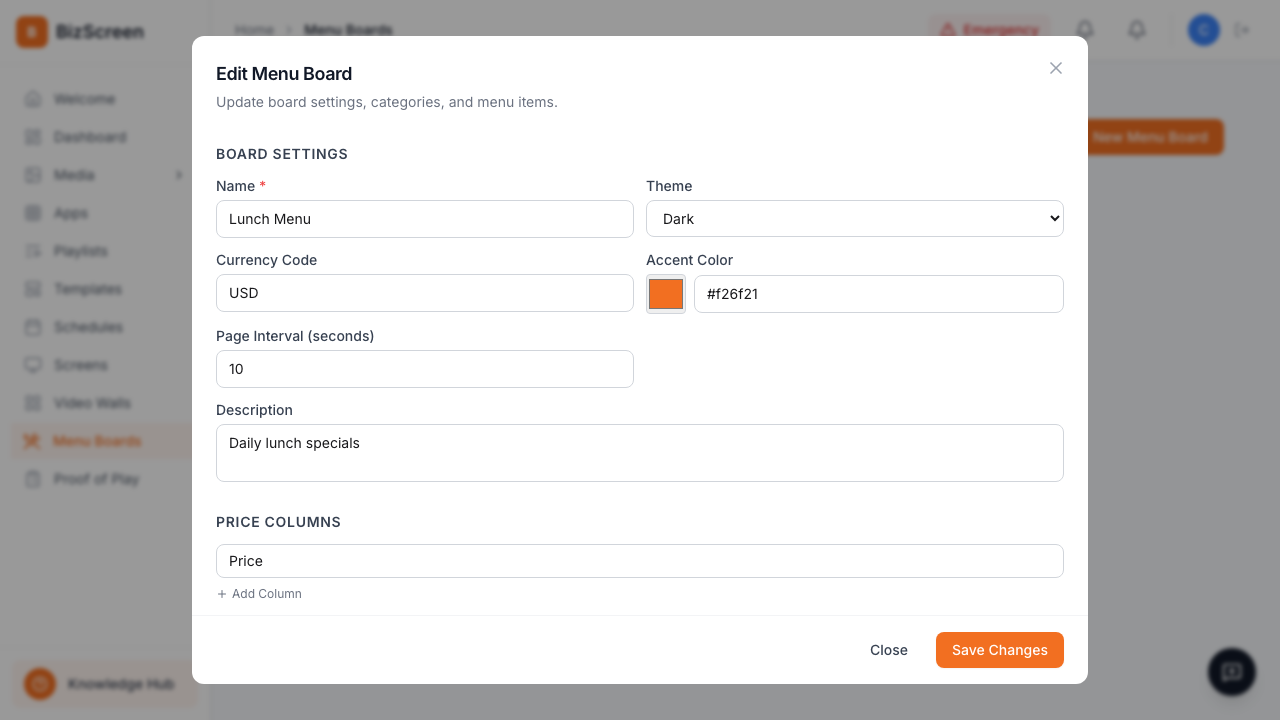
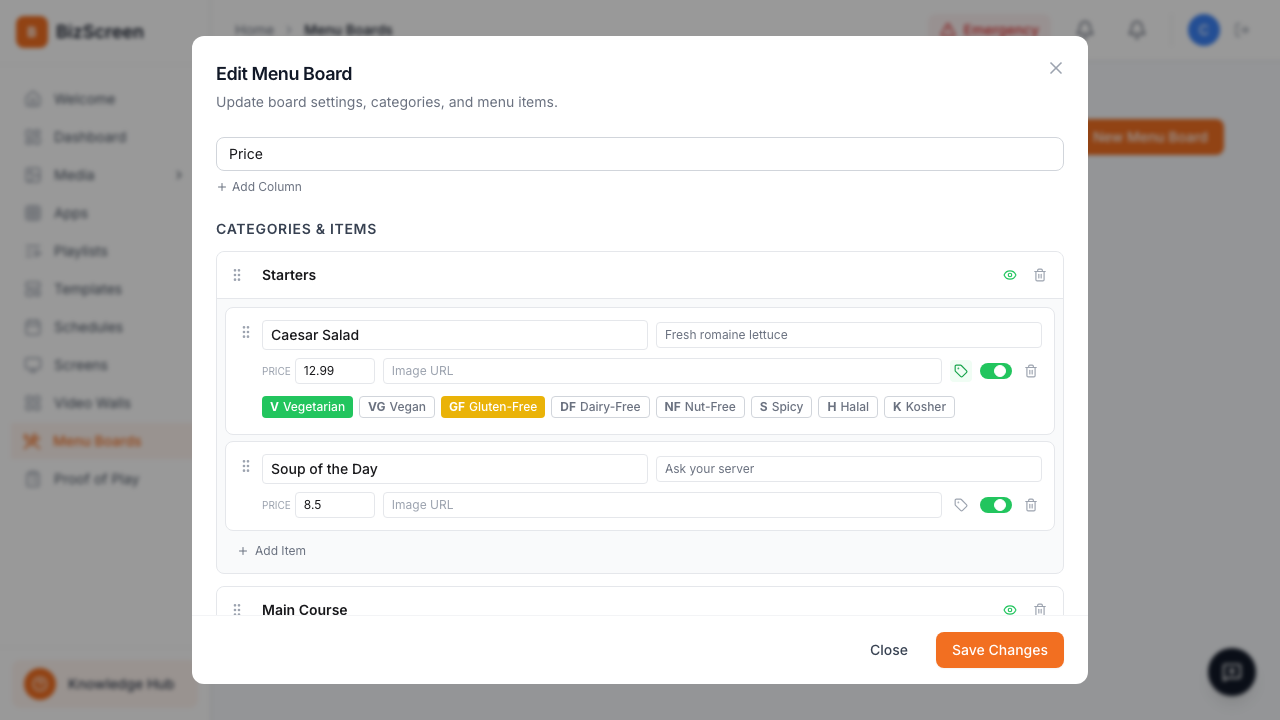
fix(125-01): replace unreliable CSS compound locator with button[title] selector for APP-07
- Use dialog.locator('button[title="Dietary tags"]').first() instead of compound CSS class selector
- Click tag button to expand DietaryTagPicker showing selected Vegetarian/Gluten-Free tags
- Remove fallback that silently produced duplicate of 120-10 screenshot
- Screenshot 120-12 now shows expanded dietary tag picker (visually distinct)

diff --git a/tests/e2e/apps-menuboards-screenshots.spec.js b/tests/e2e/apps-menuboards-screenshots.spec.js
@@ -534,25 +534,20 @@ test.describe('Apps & Menu Boards Screenshot Tests', () => {
     const dialog = page.locator('[role="dialog"]').last();
     await dialog.waitFor({ state: 'visible', timeout: 5000 });
 
-    // Look for an item with dietary tags -- Caesar Salad has vegetarian + gluten-free
-    // The dietary tag badges are small colored chips rendered inline
-    // Find the first item row that has dietary tag badges and screenshot it
-    const itemWithTags = dialog.locator('.border.border-gray-200.rounded-lg.p-3').filter({
-      hasText: 'Caesar Salad',
-    }).first();
+    // Click the Dietary Tags button on the first item (Caesar Salad in Starters category)
+    // Caesar Salad has dietary_tags: ['vegetarian', 'gluten-free'] so its Tag button is green
+    const tagButton = dialog.locator('button[title="Dietary tags"]').first();
+    await tagButton.waitFor({ state: 'visible', timeout: 5000 });
+    await tagButton.scrollIntoViewIfNeeded();
+    await tagButton.click();
+    await page.waitForTimeout(500);
 
-    if (await itemWithTags.isVisible().catch(() => false)) {
-      await itemWithTags.scrollIntoViewIfNeeded();
-      await page.waitForTimeout(300);
-      await itemWithTags.screenshot({
-        path: 'screenshots/120/120-12-menu-board-dietary-tags-desktop.png',
-      });
-    } else {
-      // Fallback: screenshot the whole dialog showing items with tags
-      await dialog.screenshot({
-        path: 'screenshots/120/120-12-menu-board-dietary-tags-desktop.png',
-      });
-    }
+    // The DietaryTagPicker is now expanded showing all dietary tags
+    // Vegetarian and Gluten-Free are selected (solid colored backgrounds)
+    // This is visually distinct from the base editor screenshot (120-10)
+    await dialog.screenshot({
+      path: 'screenshots/120/120-12-menu-board-dietary-tags-desktop.png',
+    });
   });
 
   test('APP-08: captures menu board theme and currency settings', async ({ page }) => {